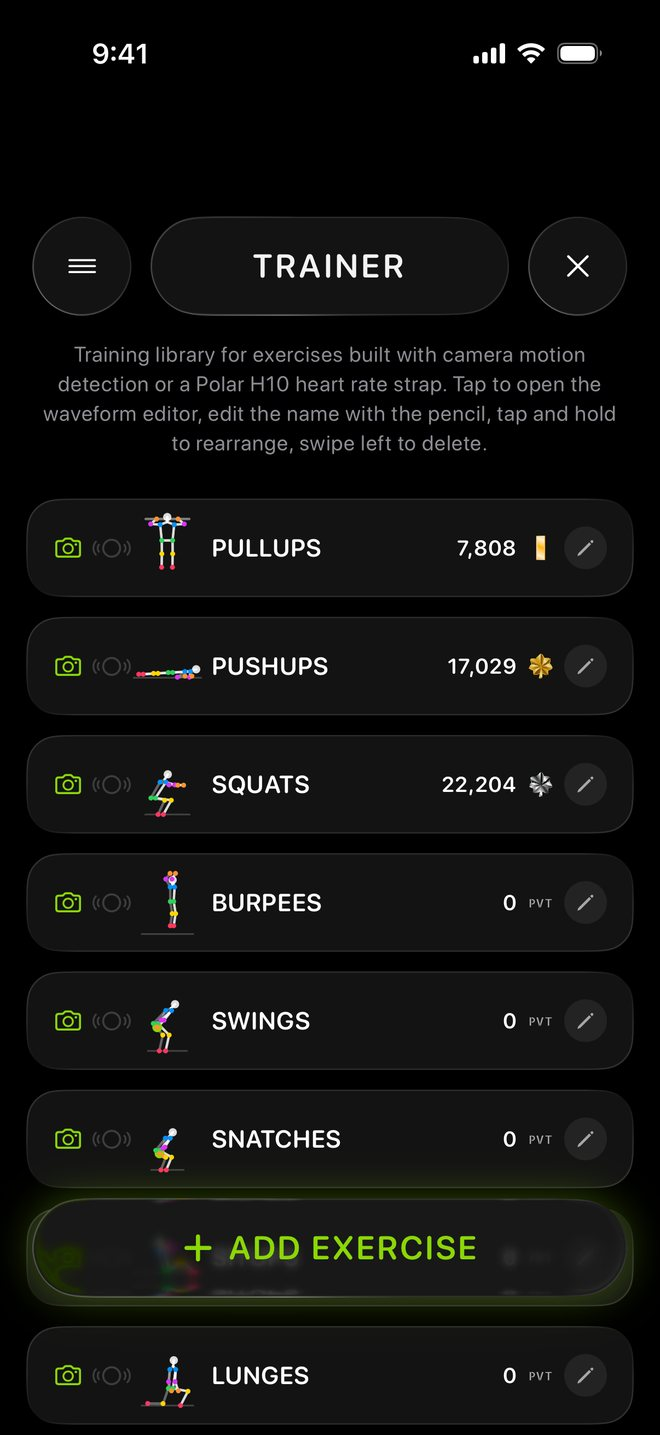
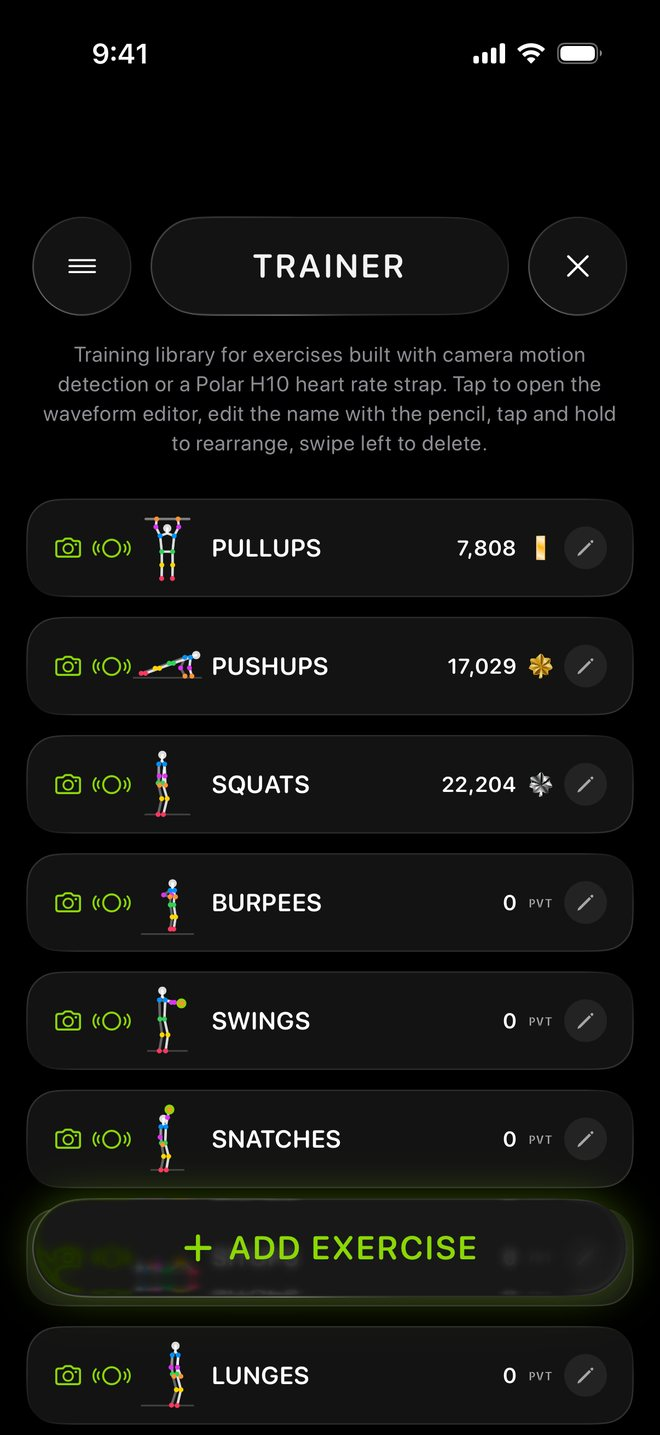
v1.18.0 [feat]: Polar skeleton look on the site, every exercise trained both ways; box light once per 5.5 s
The playable phone's list can pick camera or Polar for any exercise; a Polar pick draws the skeleton
white with the strap's dot beating in its heart rate zone colour (#355). The Trainer card switches
looks every 5.5 s, its pictures retaken with every Polar icon lit. The value box light laps once every
5.5 s whatever the heart rate (#357).

diff --git a/index.html b/index.html
@@ -302,13 +302,13 @@
             <!-- Live copy: the same screen without its skeletons, and the app's skeletons moving on top (#figData) -->
             <div class="tr-live" id="trLive" hidden aria-hidden="true">
               <img src="/assets/screens/trainer-live.jpg" width="660" height="1435" loading="lazy" alt="">
-              <canvas class="fig" data-fig="PULLUPS" data-pt="42" style="left:20.100%;top:35.675%"></canvas>
-              <canvas class="fig" data-fig="PUSHUPS" data-pt="42" style="left:20.100%;top:43.913%"></canvas>
-              <canvas class="fig" data-fig="SQUATS" data-pt="42" style="left:20.100%;top:52.151%"></canvas>
-              <canvas class="fig" data-fig="BURPEES" data-pt="42" style="left:20.100%;top:60.389%"></canvas>
-              <canvas class="fig" data-fig="SWINGS" data-pt="42" style="left:20.100%;top:68.627%"></canvas>
-              <canvas class="fig" data-fig="SNATCHES" data-pt="42" style="left:20.100%;top:76.865%"></canvas>
-              <canvas class="fig" data-fig="LUNGES" data-pt="42" style="left:20.100%;top:93.341%"></canvas>
+              <canvas class="fig" data-look="both" data-fig="PULLUPS" data-pt="42" style="left:20.100%;top:35.675%"></canvas>
+              <canvas class="fig" data-look="both" data-fig="PUSHUPS" data-pt="42" style="left:20.100%;top:43.913%"></canvas>
+              <canvas class="fig" data-look="both" data-fig="SQUATS" data-pt="42" style="left:20.100%;top:52.151%"></canvas>
+              <canvas class="fig" data-look="both" data-fig="BURPEES" data-pt="42" style="left:20.100%;top:60.389%"></canvas>
+              <canvas class="fig" data-look="both" data-fig="SWINGS" data-pt="42" style="left:20.100%;top:68.627%"></canvas>
+              <canvas class="fig" data-look="both" data-fig="SNATCHES" data-pt="42" style="left:20.100%;top:76.865%"></canvas>
+              <canvas class="fig" data-look="both" data-fig="LUNGES" data-pt="42" style="left:20.100%;top:93.341%"></canvas>
             </div>
             <span class="hl" style="--x:19.2%;--y:35.2%;--w:12%;--h:47%;--r:12px"></span>
           </div></figure>
@@ -1180,7 +1180,10 @@
     /* ---------- ExerciseFigureView (#352): a skeleton looping one rep, white bones and every joint in
        its group's colour. Drawn from the app's own ExerciseBody loops (#figData: per exercise, 40
        frames of 14 joints in body lengths x 1000, y up, exported from the app's source). A canvas
-       says which exercise (data-fig) and how many app points wide it is (data-pt). ---------- */
+       says which exercise (data-fig), how many app points wide it is (data-pt) and its look (data-look,
+       #355): camera (joints in colour), polar (all white, the strap's dot beating on the chest in its
+       heart rate zone's colour) or both (each look for 5.5 s). The page has no strap, so the dot's heart
+       rate walks through zones 1 to 5, as the app does with no live reading. ---------- */
     var Figures = (function () {
       var data = null;
       try { data = JSON.parse($("#figData").textContent); } catch (e) {}
@@ -1189,6 +1192,27 @@
       /* JointGroup order and colours: shoulders systemBlue, hips green, elbows purple, wrists orange, knees yellow, ankles pink */
       var GROUPS = [[[2, 3], "#0a84ff"], [[8, 9], "#30d158"], [[4, 5], "#bf5af2"], [[6, 7], "#ff9f0a"], [[10, 11], "#ffd60a"], [[12, 13], "#ff375f"]];
       var MARGIN = 0.09, boxes = {}, sets = {}, raf = 0, lastDraw = -1e9;
+      function hex(c) { return [parseInt(c.slice(1, 3), 16), parseInt(c.slice(3, 5), 16), parseInt(c.slice(5, 7), 16)]; }
+      GROUPS.forEach(function (g) { g.push(hex(g[1])); });
+      /* HeartRateZone colours, dark mode: zone 1 systemBlue, 2 Colors.work, 3 systemYellow, 4 systemOrange, 5 systemRed */
+      var ZONE_RGB = [null, "10,132,255", "139,215,6", "255,214,10", "255,159,10", "255,69,58"];
+      /* HeartRateZoneSettings defaults: the top of zones 0 to 4 */
+      var ZONE_TOP = [103, 114, 133, 152, 171];
+      function zoneOf(bpm) { for (var z = 0; z < ZONE_TOP.length; z++) if (bpm <= ZONE_TOP[z]) return z; return 5; }
+      /* FigureHeart.walkBPM: up from zone 1 to zone 5 and back, 4 s a zone, gliding middle to middle */
+      var MIDS = [109, 124, 143, 162, 181], WALK = MIDS.concat(MIDS.slice(1, 4).reverse());
+      function walkBPM(t) {
+        var at = (t / 4) % WALK.length, i = Math.floor(at), x = at - i, e = x * x * (3 - 2 * x);
+        return WALK[i] + (WALK[(i + 1) % WALK.length] - WALK[i]) * e;
+      }
+      function beatPulse(p) { return p < 0.08 ? p / 0.08 : Math.exp(-(p - 0.08) * 5); }
+      /* FigureLook.polarAmount: 0 camera, 1 Polar; "both" holds each 5.5 s and crossfades in 0.45 s */
+      function polarAmount(look, t) {
+        if (look === "polar") return 1;
+        if (look !== "both" || reduced) return 0;
+        var c = t % 11, r = function (x) { var p = Math.min(1, Math.max(0, x / 0.45)); return p * p * (3 - 2 * p); };
+        return c < 5.5 ? 1 - r(c) : r(c - 5.5);
+      }
       function box(n) {
         if (boxes[n]) return boxes[n];
         var x0 = 1e9, x1 = -1e9, y0 = 1e9, y1 = -1e9;
@@ -1231,7 +1255,22 @@
           f.bell.forEach(function (j) { mx += q[j][0]; my += q[j][1]; });
           dot(P([mx / f.bell.length, my / f.bell.length]), Math.max(3 * pt, s * 0.05), LIME);
         }
-        GROUPS.forEach(function (g) { g[0].forEach(function (j) { if (q[j]) dot(P(q[j]), joint, g[1]); }); });
+        var polar = polarAmount(cv.getAttribute("data-look"), now / 1000);
+        GROUPS.forEach(function (g) {
+          var c = g[2], col = polar <= 0 ? g[1] : "rgb(" + c.map(function (v) { return Math.round(v + (255 - v) * polar); }).join(",") + ")";
+          g[0].forEach(function (j) { if (q[j]) dot(P(q[j]), joint, col); });
+        });
+        /* the strap's dot on the breastbone, a beat at the heart rate in its zone's colour (#355) */
+        if (polar > 0 && q[2] && q[3] && q[8] && q[9]) {
+          var sx = (q[2][0] + q[3][0]) / 2, sy = (q[2][1] + q[3][1]) / 2, hx = (q[8][0] + q[9][0]) / 2, hy = (q[8][1] + q[9][1]) / 2;
+          var chest = P([sx + (hx - sx) * 0.3, sy + (hy - sy) * 0.3]), r = Math.max(2.2 * pt, s * 0.045);
+          var bpm = walkBPM(now / 1000), rgb = ZONE_RGB[Math.max(1, zoneOf(Math.round(bpm)))];
+          if (cv._t != null) cv._ph = ((cv._ph || 0) + Math.max(0, Math.min(0.2, (now - cv._t) / 1000)) * bpm / 60) % 1;
+          cv._t = now;
+          var pulse = reduced ? 0.5 : beatPulse(cv._ph || 0);
+          dot(chest, r * (1.9 + 1.1 * pulse), "rgba(" + rgb + "," + ((0.14 + 0.3 * pulse) * polar).toFixed(3) + ")");
+          dot(chest, r * (1 + 0.25 * pulse), "rgba(" + rgb + "," + ((0.7 + 0.3 * pulse) * polar).toFixed(3) + ")");
+        }
       }
       function all() { var out = []; for (var k in sets) out = out.concat(sets[k]); return out; }
       /* 30 frames a second, as TimelineView(minimumInterval: 1/30); one still frame under Reduce Motion */
@@ -1729,7 +1768,7 @@
         gctx.globalAlpha = actx.globalAlpha = 1;
       }
 
-      /* ---- RunningRimView (#333): a misty electric current laps the value box, 4 s on, 6 s off ----
+      /* ---- RunningRimView (#333): a misty electric current laps the value box once every 5.5 s breath (#357) ----
          The app's layers one for one: a haze round the box, a mist and a glow along the trail, a hot
          core on its front half and sparks at the head. The box shrinks with the ring (#332) and its
          glow with it, so every size below is points times RS. */
@@ -1791,7 +1830,9 @@
       }
       function drawRim(now) {
         if (!rim.pts) return;
-        var ctx = rctx, s = rim.s, t = now / 1000, inC = t % 10, ring = rim.pts.concat([rim.pts[0]]);
+        /* one 2.4 s lap, then a rest, every 5.5 s, whatever the heart rate (#357) */
+        var LAP = 2.4, BREATH = 5.5;
+        var ctx = rctx, s = rim.s, t = now / 1000, inC = t % BREATH, ring = rim.pts.concat([rim.pts[0]]);
         ctx.setTransform(rim.dpr, 0, 0, rim.dpr, 0, 0);
         ctx.clearRect(0, 0, rim.w, rim.h);
         if (tab || running || naming) return;
@@ -1802,9 +1843,9 @@
           polyline(ctx, ring, 1 * s, "rgba(" + RIM + ",0.3)");
           return;
         }
-        if (inC >= 4) return;
-        var strength = Math.min(1, inC / 0.5, (4 - inC) / 0.5) * (0.78 + 0.22 * noise(t * 18, 7));
-        var arcLen = 0.28, head = (inC / 2.4) % 1, hp = rimAt(head), tp = rimAt(head - arcLen), mp = rimAt(head - arcLen / 2);
+        if (inC >= LAP) return;
+        var strength = Math.min(1, inC / 0.5, (LAP - inC) / 0.5) * (0.78 + 0.22 * noise(t * 18, 7));
+        var arcLen = 0.28, head = (inC / LAP) % 1, hp = rimAt(head), tp = rimAt(head - arcLen), mp = rimAt(head - arcLen / 2);
         var trail = rimArc(head - arcLen, head), front = rimArc(head - arcLen / 2, head);
         /* the whole box breathes faintly, so the trail rises out of a haze */
         blurred(ctx, RIM, 10 * s, function (c) { polyline(c, ring, 10 * s, "rgba(0,0,0," + (0.12 * strength).toFixed(4) + ")"); });
@@ -1922,7 +1963,7 @@
         if (tab === "exercises") {
           on = true;
           html = cfg.ex.map(function (x, i) {
-            return '<button type="button" class="g rim cfg-card cfg-chip" data-chip="' + i + '"><span class="row">' + insignia(RANKS[rankIndex(SOLDIER[x.n] || 0)], 16) + I.camera + '</span><span class="nm">' + x.n + "</span></button>";
+            return '<button type="button" class="g rim cfg-card cfg-chip" data-chip="' + i + '"><span class="row">' + insignia(RANKS[rankIndex(SOLDIER[x.n] || 0)], 16) + (x.m === "polar" ? I.sensor : I.camera) + '</span><span class="nm">' + x.n + "</span></button>";
           }).join("");
         } else if (tab === "work" && cfg.ladder) {
           on = true;
@@ -2080,8 +2121,9 @@
 
       /* ---- exercise picker (ExercisePickerOverlay): one list of single exercises, a tick each,
          up to three in tap order (#336); a camera and a Polar icon per row (#348); every row loops
-         its exercise as a skeleton (#352). The bundled exercises are camera trained, none on a strap. ---- */
-      var pickBase = null, refuseTimer = 0;
+         its exercise as a skeleton (#352). Here every exercise is trained both ways, so either icon can
+         be its pick, and a Polar pick shows the Polar look (#355). The pick is `m` on the exercise. ---- */
+      var pickBase = null;
       function openPicker() {
         pickBase = clone(cfg.ex);                      /* the workout as the card found it */
         el.pickPanel.innerHTML = '<div class="pick-list" id="pickList">' + LIBRARY.map(function (n) {
@@ -2101,13 +2143,23 @@
       }
       function closePicker() { el.pickOv.classList.remove("on"); Figures.show("picker", []); }
       function paintPicker() {
-        var names = cfg.ex.map(function (x) { return x.n; });
         $$(".pick-row", el.pickPanel).forEach(function (row) {
-          var on = names.indexOf(row.getAttribute("data-ex")) >= 0;
-          row.classList.toggle("on", on);
-          row.setAttribute("aria-pressed", on);
-          $(".pr-tick", row).innerHTML = on ? I.tickOn : I.tickOff;
+          var x = cfg.ex.filter(function (e) { return e.n === row.getAttribute("data-ex"); })[0], polar = !!x && x.m === "polar";
+          row.classList.toggle("on", !!x);
+          row.setAttribute("aria-pressed", !!x);
+          $(".pr-tick", row).innerHTML = x ? I.tickOn : I.tickOff;
+          /* the icon counting it in this workout is lime and larger (#348) */
+          $(".pr-m.cam", row).classList.toggle("picked", !!x && !polar);
+          $(".pr-m.pol", row).classList.toggle("picked", polar);
+          $(".pr-fig", row).setAttribute("data-look", polar ? "polar" : "camera");
         });
+      }
+      /* an icon picks how this exercise counts; one not in the workout yet is ticked in first */
+      function pickMethod(n, row, method) {
+        if (!cfg.ex.some(function (e) { return e.n === n; }) && !tick(n, row)) return;
+        cfg.ex.forEach(function (e) { if (e.n === n) { if (method === "polar") e.m = "polar"; else delete e.m; } });
+        render();
+        paintPicker();
       }
       /* the numbers a newly ticked exercise starts with: its own if it was in the workout when the
          card opened, else a slot no kept exercise owns, else the mode's defaults */
@@ -2118,6 +2170,7 @@
         var free = pickBase.filter(function (x) { return kept.indexOf(x.n) < 0 && LIBRARY.indexOf(x.n) >= 0; })[0];
         var x = free ? clone(free) : cfg.mode === "time" ? { w: cfg.ex[0] ? cfg.ex[0].w : 30 } : cfg.mode === "amrap" ? { s: 10 } : { t: 100, s: 10 };
         x.n = n;
+        delete x.m;                                   /* a pick stays with its own exercise, never a slot */
         return x;
       }
       function shakeRow(row) { retrigger(row, "wiggle"); if (navigator.vibrate) navigator.vibrate([30, 40, 30]); }
@@ -2135,16 +2188,6 @@
         render();
         paintPicker();
         return true;
-      }
-      /* an untrained icon: the red reason in place of the name for two seconds */
-      function refuse(row) {
-        var name = $(".pr-n", row);
-        clearTimeout(refuseTimer);
-        $$(".pick-row.refused", el.pickPanel).forEach(function (r) { r.classList.remove("refused"); $(".pr-n", r).textContent = r.getAttribute("data-ex"); });
-        row.classList.add("refused");
-        name.textContent = "Polar not set up";
-        retrigger(name, "wiggle");
-        refuseTimer = setTimeout(function () { row.classList.remove("refused"); name.textContent = row.getAttribute("data-ex"); }, 2000);
       }
 
       /* ---- ladder (#301): the work tab's stairs, each step one round (TIME) or one set (REPS) ---- */
@@ -2463,7 +2506,7 @@
         run: ["Run before or after", "Add a run before or after the workout, like the two miles of MURPH. Tap before or after, then drag up or down to set the distance. In the app the phone's GPS measures it, even locked in a pocket."],
         runLive: ["Run", "The ring and the bar fill with the distance. In the app the phone's GPS measures it. Here the run plays at ten times speed."],
         handoff: ["Set your phone down", "In the app the workout carries on by itself once the phone is down where the camera can see you. Here, tap the screen."],
-        polar: ["Camera or Polar", "Each exercise counts with the camera or a Polar H10 strap, your pick. These come trained for the camera; train one with the strap in the Trainer and its icon lights up."],
+        polar: ["Camera or Polar", "Each exercise counts with the camera or a Polar H10 strap, your pick. Counted by the strap, its skeleton turns white and the strap's dot on the chest beats with your heart rate, in its zone's colour."],
         ring: ["Your workout at a glance", "The ring previews your workout: bright segments are work, dark gaps are rest. The number in the middle is the total time, or total reps in REPS mode."],
         edit: ["Rename or save", "This button changes with what you do. Pencil: rename your workout. Checkmark: save the changes you made, or confirm a name you typed. A plus appears underneath it to save your changes as a separate new workout."],
         plus: ["Save as new", "Type a name and the setup becomes its own workout, one swipe away."],
@@ -2632,9 +2675,7 @@
         var row = e.target.closest(".pick-row");
         if (!row) { if (!e.target.closest(".pick-panel")) closePicker(); return; }
         var m = e.target.closest(".pr-m"), n = row.getAttribute("data-ex");
-        if (m && m.getAttribute("data-m") === "polar") { refuse(row); showTip("polar", el.pickPanel, false, true); return; }
-        /* the camera icon on a row not ticked yet ticks it in; on a ticked row it is already the pick */
-        if (m && row.classList.contains("on")) return;
+        if (m) { pickMethod(n, row, m.getAttribute("data-m")); if (m.getAttribute("data-m") === "polar") showTip("polar", el.pickPanel, false, true); return; }
         tick(n, row);
       });
       el.pickOv.addEventListener("keydown", function (e) {

diff --git a/styles.css b/styles.css
@@ -438,10 +438,9 @@ button { font: inherit; color: inherit; background: none; border: 0; }
 .pr-fig { width: calc(46 * var(--u)); height: calc(46 * var(--u)); flex: none; }
 .pr-m { width: calc(28 * var(--u)); height: calc(40 * var(--u)); display: grid; place-items: center; flex: none; color: rgba(255, 255, 255, 0.55); transition: transform 0.28s cubic-bezier(0.3, 1.6, 0.5, 1), color 0.2s ease; }
 .pr-m svg { width: calc(19 * var(--u)); height: calc(16 * var(--u)); }
-.pr-m.pol { margin-left: calc(-6 * var(--u)); color: rgba(255, 255, 255, 0.18); }
-.pick-row.on .pr-m.cam { color: var(--lime); transform: scale(1.25); filter: drop-shadow(0 0 calc(4 * var(--u)) rgba(139, 215, 6, 0.6)); }
+.pr-m.pol { margin-left: calc(-6 * var(--u)); }
+.pick-row.on .pr-m.picked { color: var(--lime); transform: scale(1.25); filter: drop-shadow(0 0 calc(4 * var(--u)) rgba(139, 215, 6, 0.6)); }
 .pr-n { flex: 1; min-width: 0; white-space: nowrap; overflow: hidden; text-overflow: ellipsis; font-weight: 400; }
-.pick-row.refused .pr-n { color: #ff453a; font-weight: 600; }
 .pr-tick { width: calc(22 * var(--u)); height: calc(22 * var(--u)); flex: none; color: rgba(235, 235, 245, 0.6); }
 .pick-row.on .pr-tick { color: var(--lime); }
 .pr-tick svg { width: 100%; height: 100%; display: block; }
